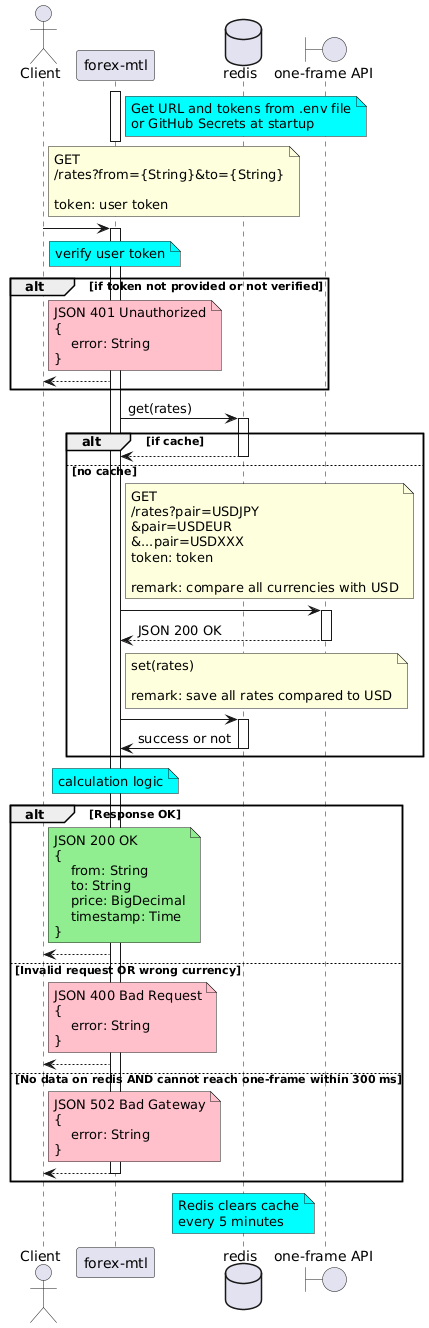
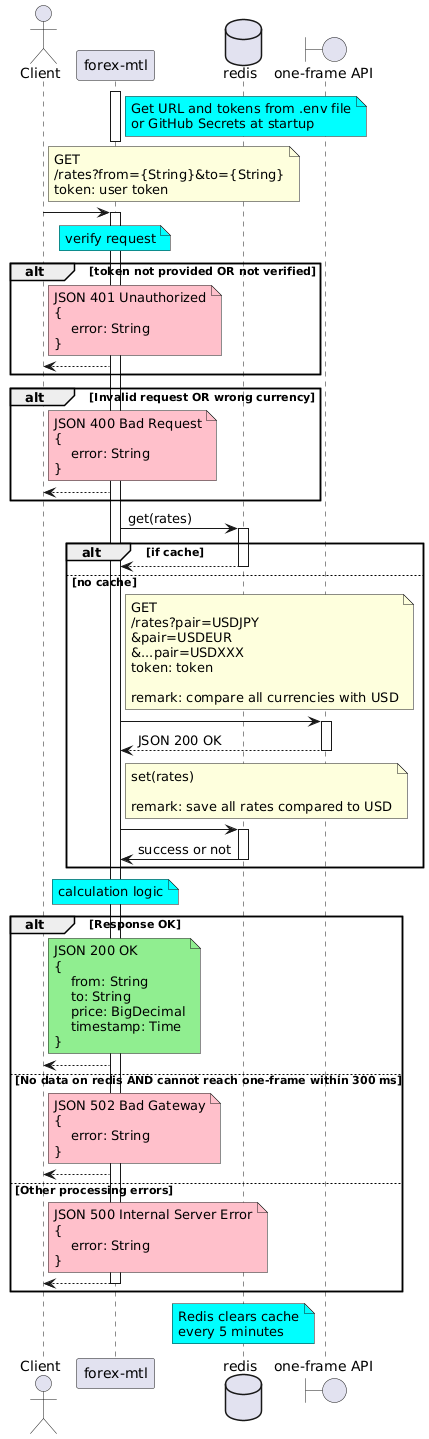
Updated README.md. Added implmentation details. Updated sequence diagram.

diff --git a/README.md b/README.md
@@ -3,28 +3,52 @@
 ## Functional Requirements (Assumptions Included)
 > The service returns an exchange rate when provided with 2 supported currencies
 1. Users can **call the endpoint `/rates`** with `from` and `to` to receive an exchange rate.
-2. Users receive a **rounded** exchange rate with **4 decimal digits if the rate is more than or equal to 0.1000** or **4 significant digits if the rate is less than 0.1000**.
-3. Users receive an exchange rate only for currencies in scope (See **Appendix** for Currencies in Scope).
+2. Users receive a **rounded** exchange rate with **4 decimal digits if the rate is greater than or equal to 0.1000** or **4 significant digits if the rate is less than 0.1000**.
+3. Users receive an exchange rate only for currencies in scope (see **Appendix** for Currencies in Scope).
+4. All exchange rates are equally available to users; **no currency pair has higher priority or peak usage.**
 > The rate should not be older than 5 minutes.
 4. The rate should **not be older than 5 minutes**.
 > The service should support at least 10,000 successful requests per day **with 1 API token**.
 
-5. The service **verifies the user token** and gives a successful response only to requests with a verified token.
-6. The service returns the error message and HTTP status code for the corresponding error cases (See **Appendix** for Error Responses).
+5. The service **verifies the user token** and returns a successful response only for requests with a verified token.
+6. The service returns the error message and HTTP status code for the corresponding error cases (see **Appendix** for Error Responses).
 
 ## Non-functional Requirements (Assumptions Included)
-1. Users can receive a response in real time with **latency less than 500 ms** when testing locally.
+1. Users can receive a response in real time with **latency less than 500 ms** when testing locally. We assume that all users are in Japan.
 > The service should support **at least 10,000 successful requests per day** with 1 API token.
 2. The service supports **at least 10,000 successful requests per day**.
-3. The service has a **local cache/database to save currency values**, so it does not call the One-Frame API for every request it receives (Can call One-Frame API only 1000 times per day).
+3. The service can call **One-Frame API only 1000 times** per day. There is no limitation on the request length or response size of the One-Frame API.
 4. The service has **unit tests** for successful cases (for an exchange rate greater than and less than 0.1) and error cases.
-5. The service provides **OpenAPI documentation** on the endpoint `/docs`.
-6. The service must **store user tokens and the One-Frame API token only in secure storage** with encryption in production.
-7. The service should be able to handle maximum 2 requests concurrently.
+5. The service must **store user tokens and the One-Frame API token only in secure storage** with encryption in production.
+6. The service should be able to handle **a maximum of 3 requests concurrently** (under 6 QPS).
 
 ## Sequence Diagram
 
 ![Sequence Diagram](sequence-diagram.png)
+
+## Implementation Details
+1. Forex-mtl fetches URLs, configurations, user token, and One-Frame token from .env at startup.
+2. When receiving a request, forex-mtl verifies the user token. Forex-mtl returns `401 Unauthorized error` if the token is not verified or does not exist.
+3. Forex-mtl verifies the request. The `from` and `to` parameters must be present, and both currencies should be in scope. If not, it returns `400 Bad Request`.
+4. Forex-mtl implements caching with Redis, refreshing every 300 seconds.
+5. When there is no cache in Redis:  
+    * Forex-mtl calls the One-Frame API with 165 pairs to get all currencies against USD.
+    * If forex-mtl cannot call the One-Frame API within 300 ms, it returns `503 Service Unavailable`.
+    * Then, forex-mtl sets the cache in Redis with the key `rates` and the value for the response.
+    * Concurrent updates for Redis are acceptable, and only the last update is saved ("last write wins").
+    * Remark: Estimated response size ≈ 23 KB.
+6. When there is a cache in Redis:
+    * Forex-mtl gets all currency rates against USD from Redis.
+7. Forex-mtl calculates exchange rates.  
+For example, `USD to JPY = R1`, `USD to EUR = R2`, it calculates using the following formula:
+    ```math
+    \text{JPY} → \text{EUR}=\frac{R1}{R2}
+    ```
+    * If the value is greater than or equal to 0.1000, round the value to 4 decimal digits.
+    * If the value is less than 0.1000, round the value to 4 significant digits.
+8. Forex-mtl returns an exchange rate to user with a timestamp.
+
+---
 
 ## Appendix
 ### Currencies in Scope*
@@ -35,7 +59,12 @@ AED, AFN, ALL, AMD, ANG, AOA, ARS, AUD, AWG, AZN, BAM, BBD, BDT, BGN, BHD, BIF, 
 ### Error Responses
 | Error case | HTTP status code | Message |
 |---|---|---|
-| Token not provided, token verification failed | 401 Unauthorized | Token verification failed. Please provide the correct token. |
-| Invalid request, insufficient parameters, currency out of scope | 400 Bad Request | Invalid request. 
+| Token not provided or token verification failed | 401 Unauthorized | Token verification failed. Please provide the correct token. |
+| Invalid request, insufficient parameters, or currency out of scope | 400 Bad Request | Invalid request. |
 | Unable to connect to the One-Frame Service when there is no saved data | 503 Service Unavailable | Unable to reach external rate service. Please try again later. |
 | Other unexpected errors while processing requests | 500 Internal Server Error | Internal error. Please contact the developer. |
+
+### QPS calculation
+#### Maximum times of cache clearing per day (every 5 minutes)
+```math
+\frac{\text{seconds in one day}}{\text{seconds to clear cache}} = \frac{86400\ \text{seconds}}{300\ \text{seconds per time}} = 288\ \text{times}
